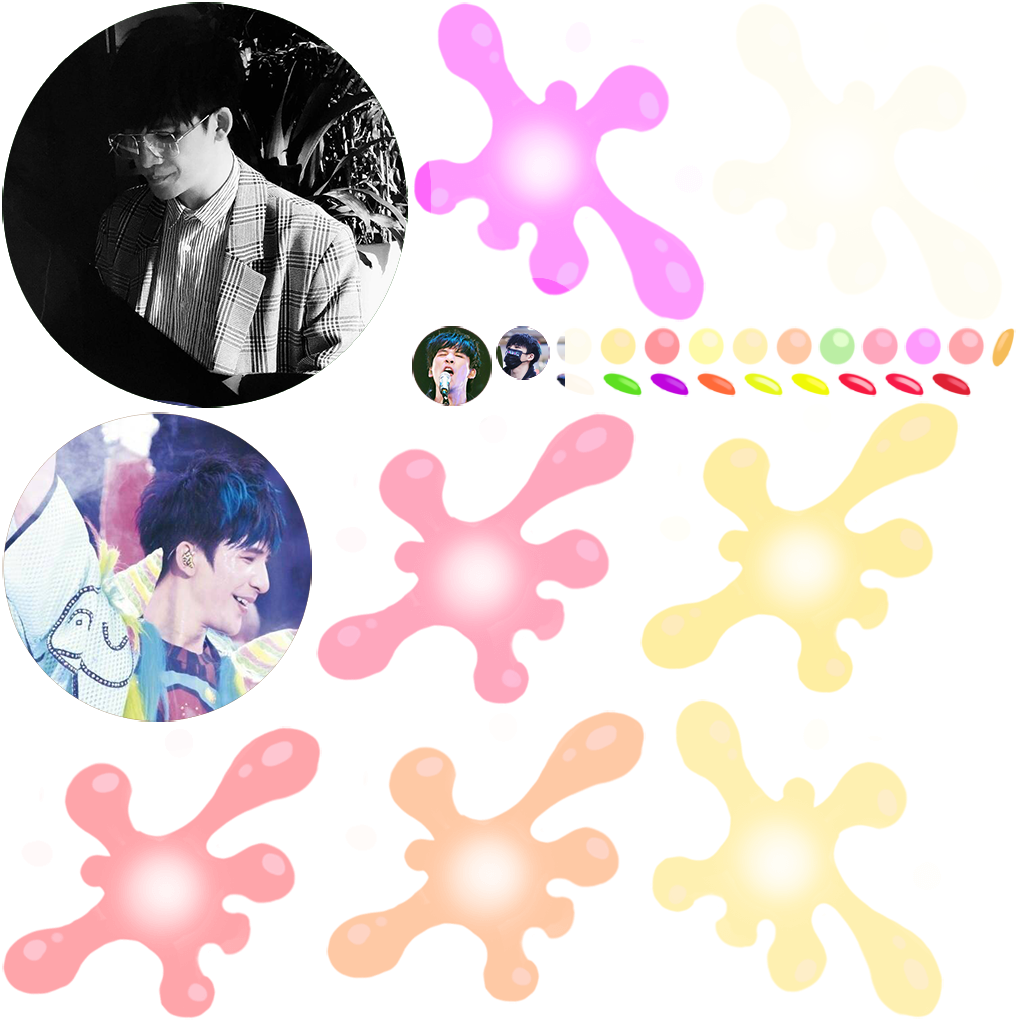
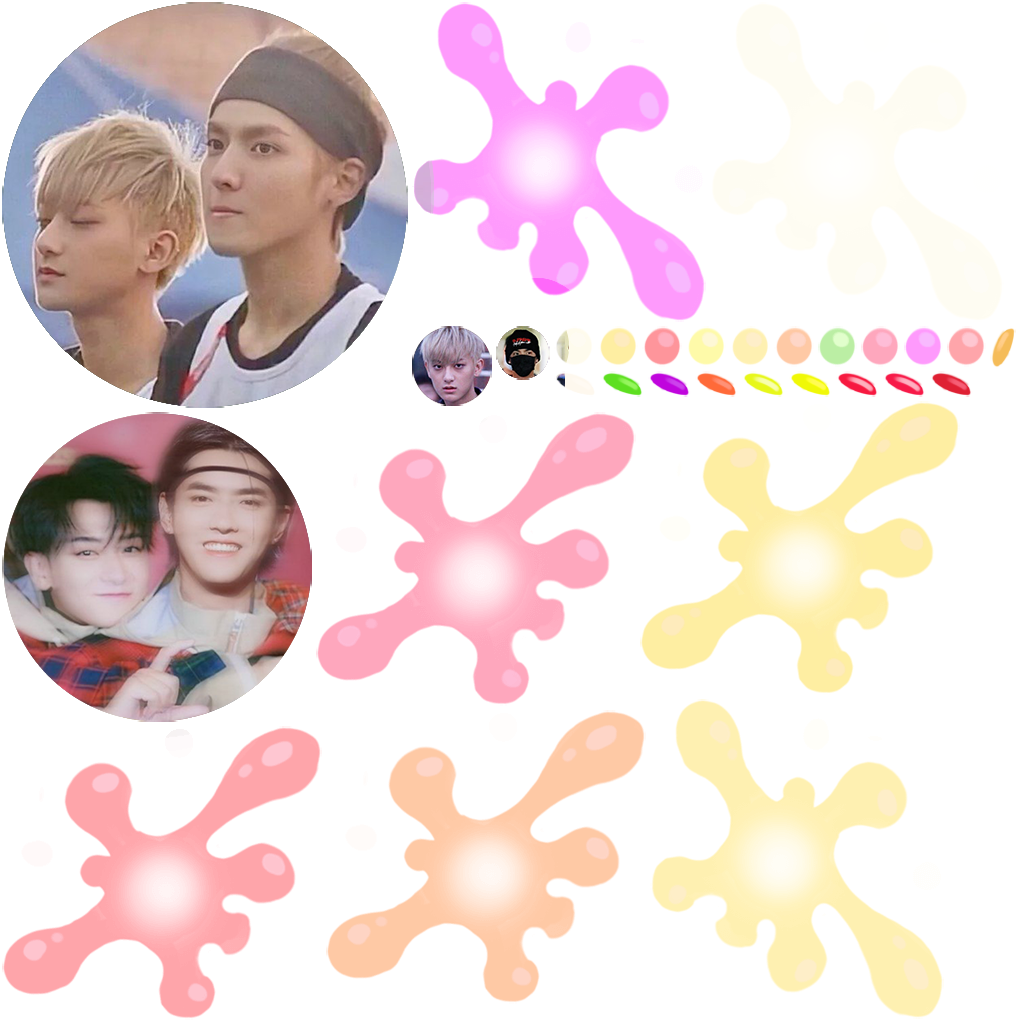
nitial commit

Changed region(s): [[0.0, 0.0, 0.4263, 0.728], [0.3959, 0.3033, 0.5786, 0.3943]]

diff --git a/index.html b/index.html
@@ -4,7 +4,7 @@
 <head>
     <meta charset="utf-8">
 
-    <title>合成大宝贝</title>
+    <title>合成小情侣</title>
 
     <!--http://www.html5rocks.com/en/mobile/mobifying/-->
     <meta name="viewport" content="width=device-width,user-scalable=no,initial-scale=1, minimum-scale=1,maximum-scale=1" />
@@ -109,7 +109,7 @@
             //        console.log("window.navigator.language",window.navigator.language);
 
             if (window.navigator.language == "zh-CN" || window.navigator.language == "zh-cn") {
-                document.title = "合成大宝贝";
+                document.title = "合成小情侣";
             } 
 
 
